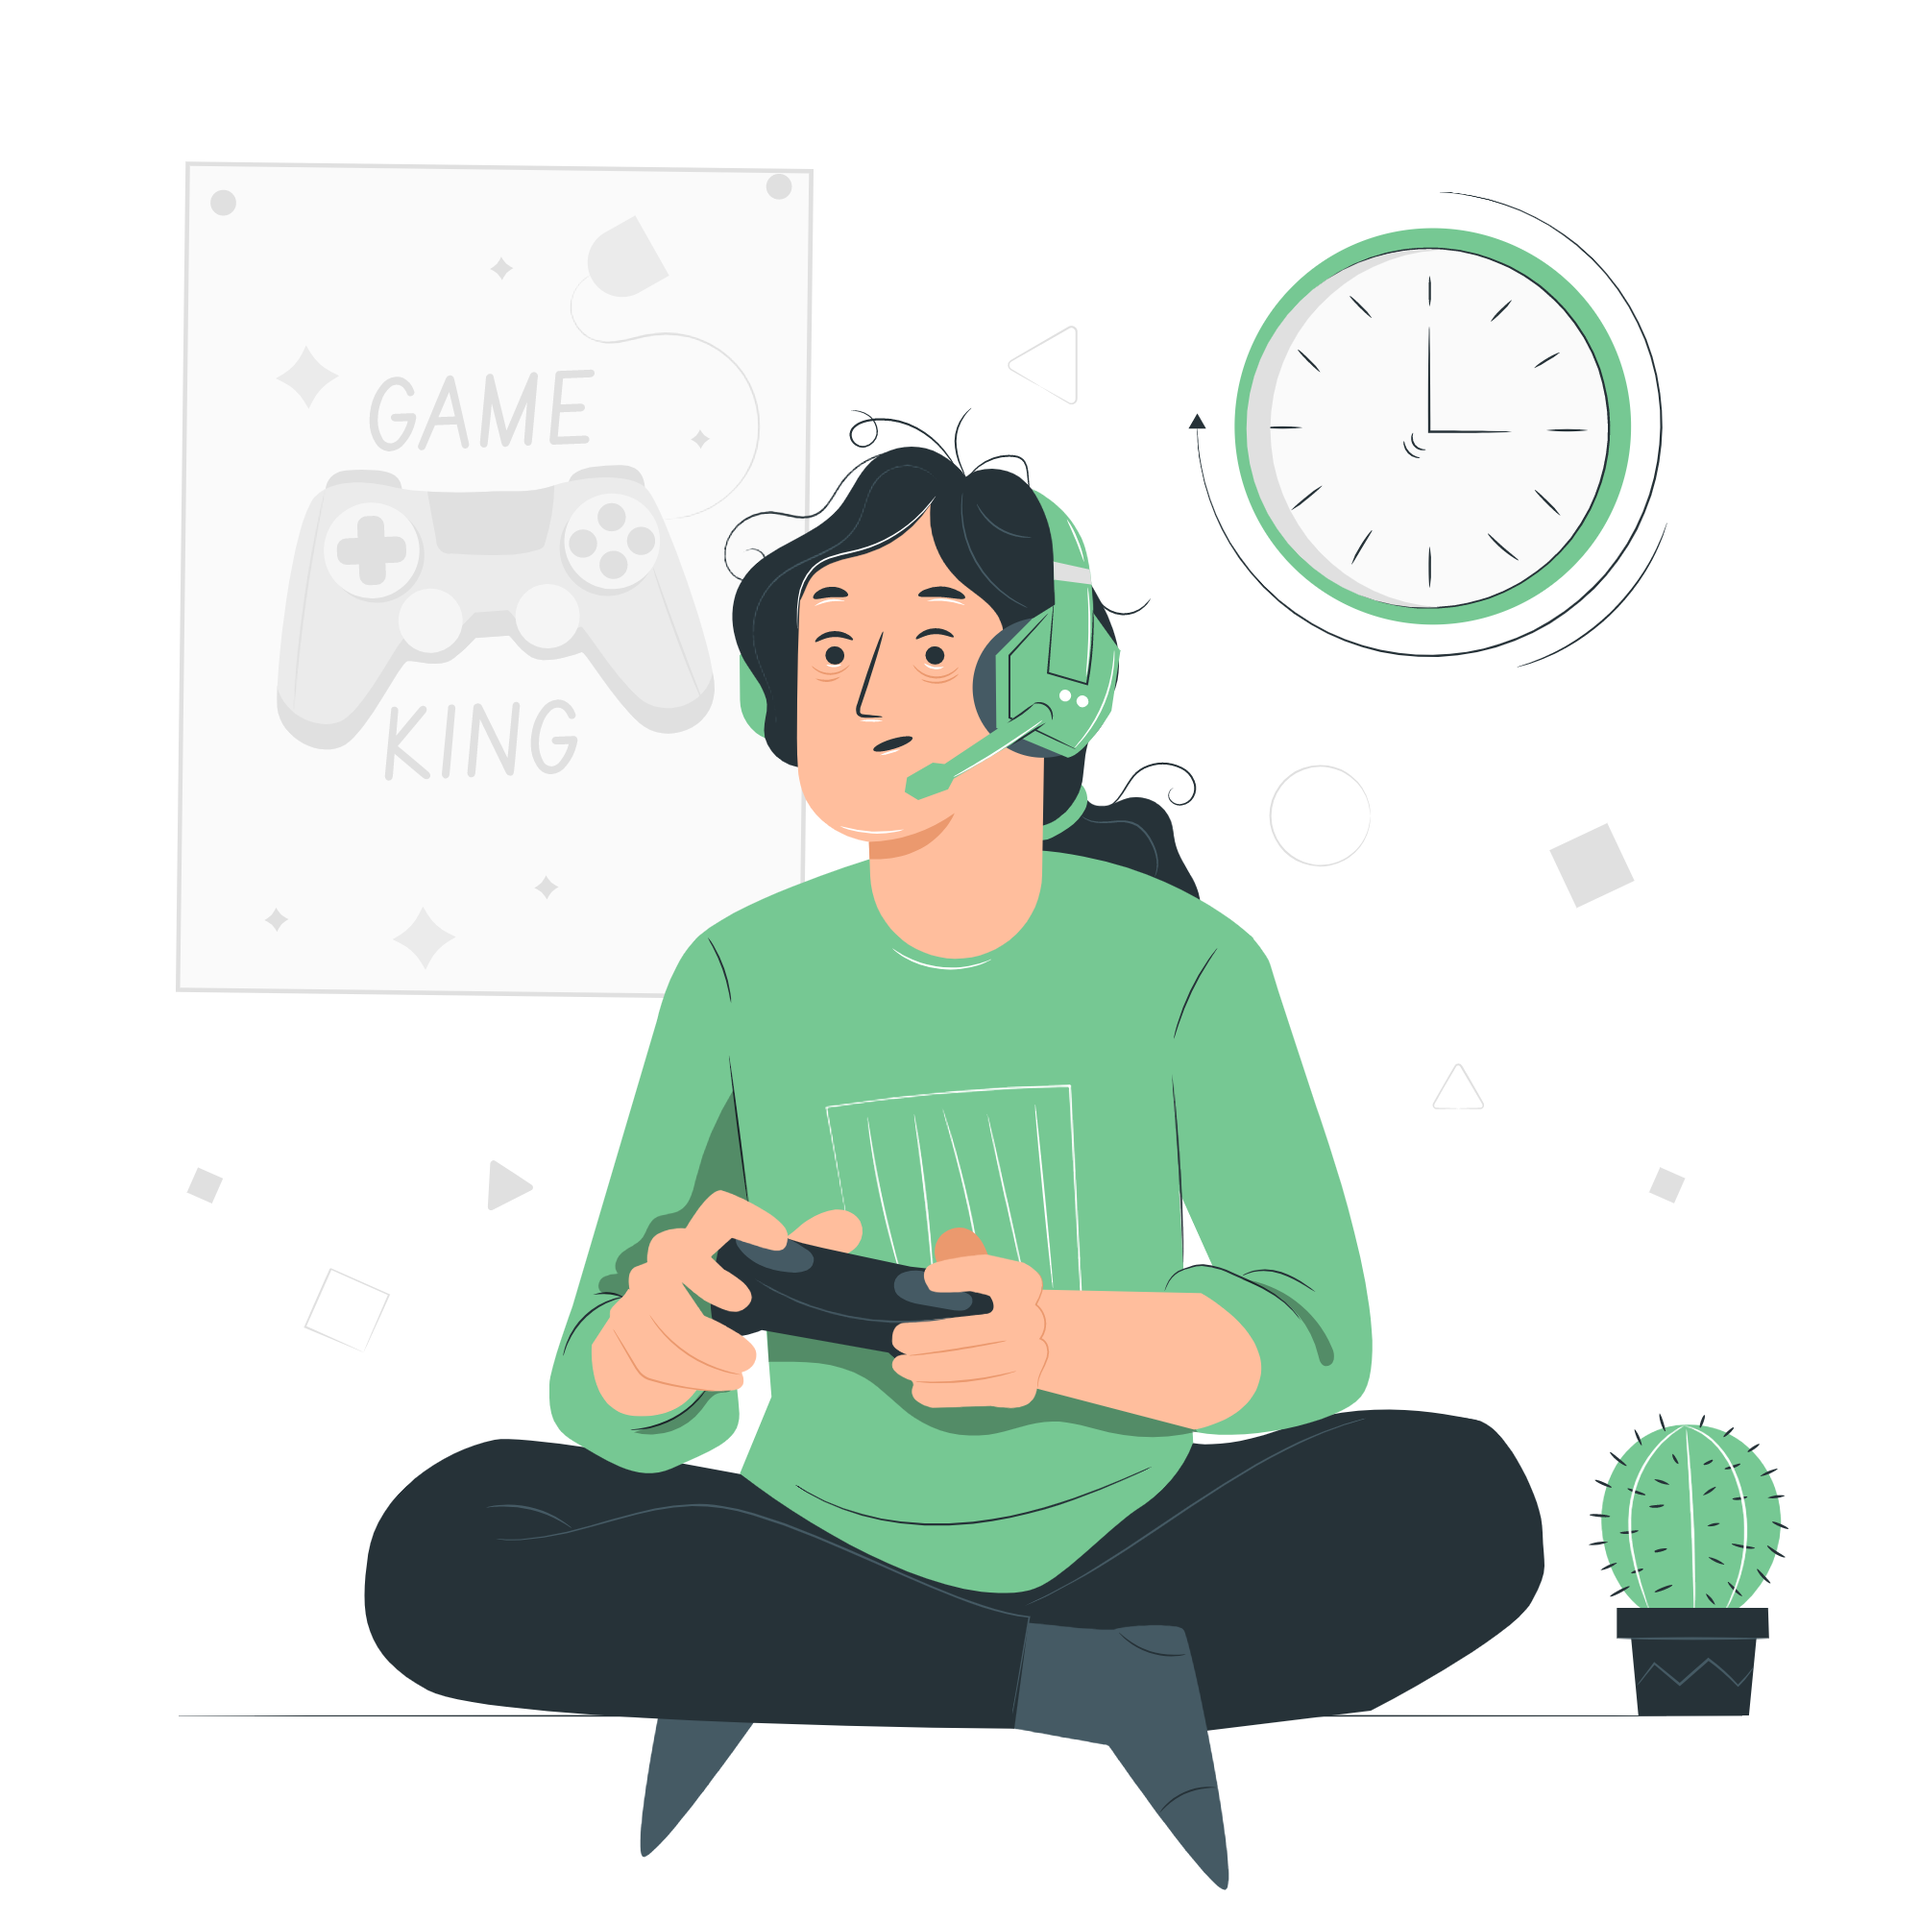
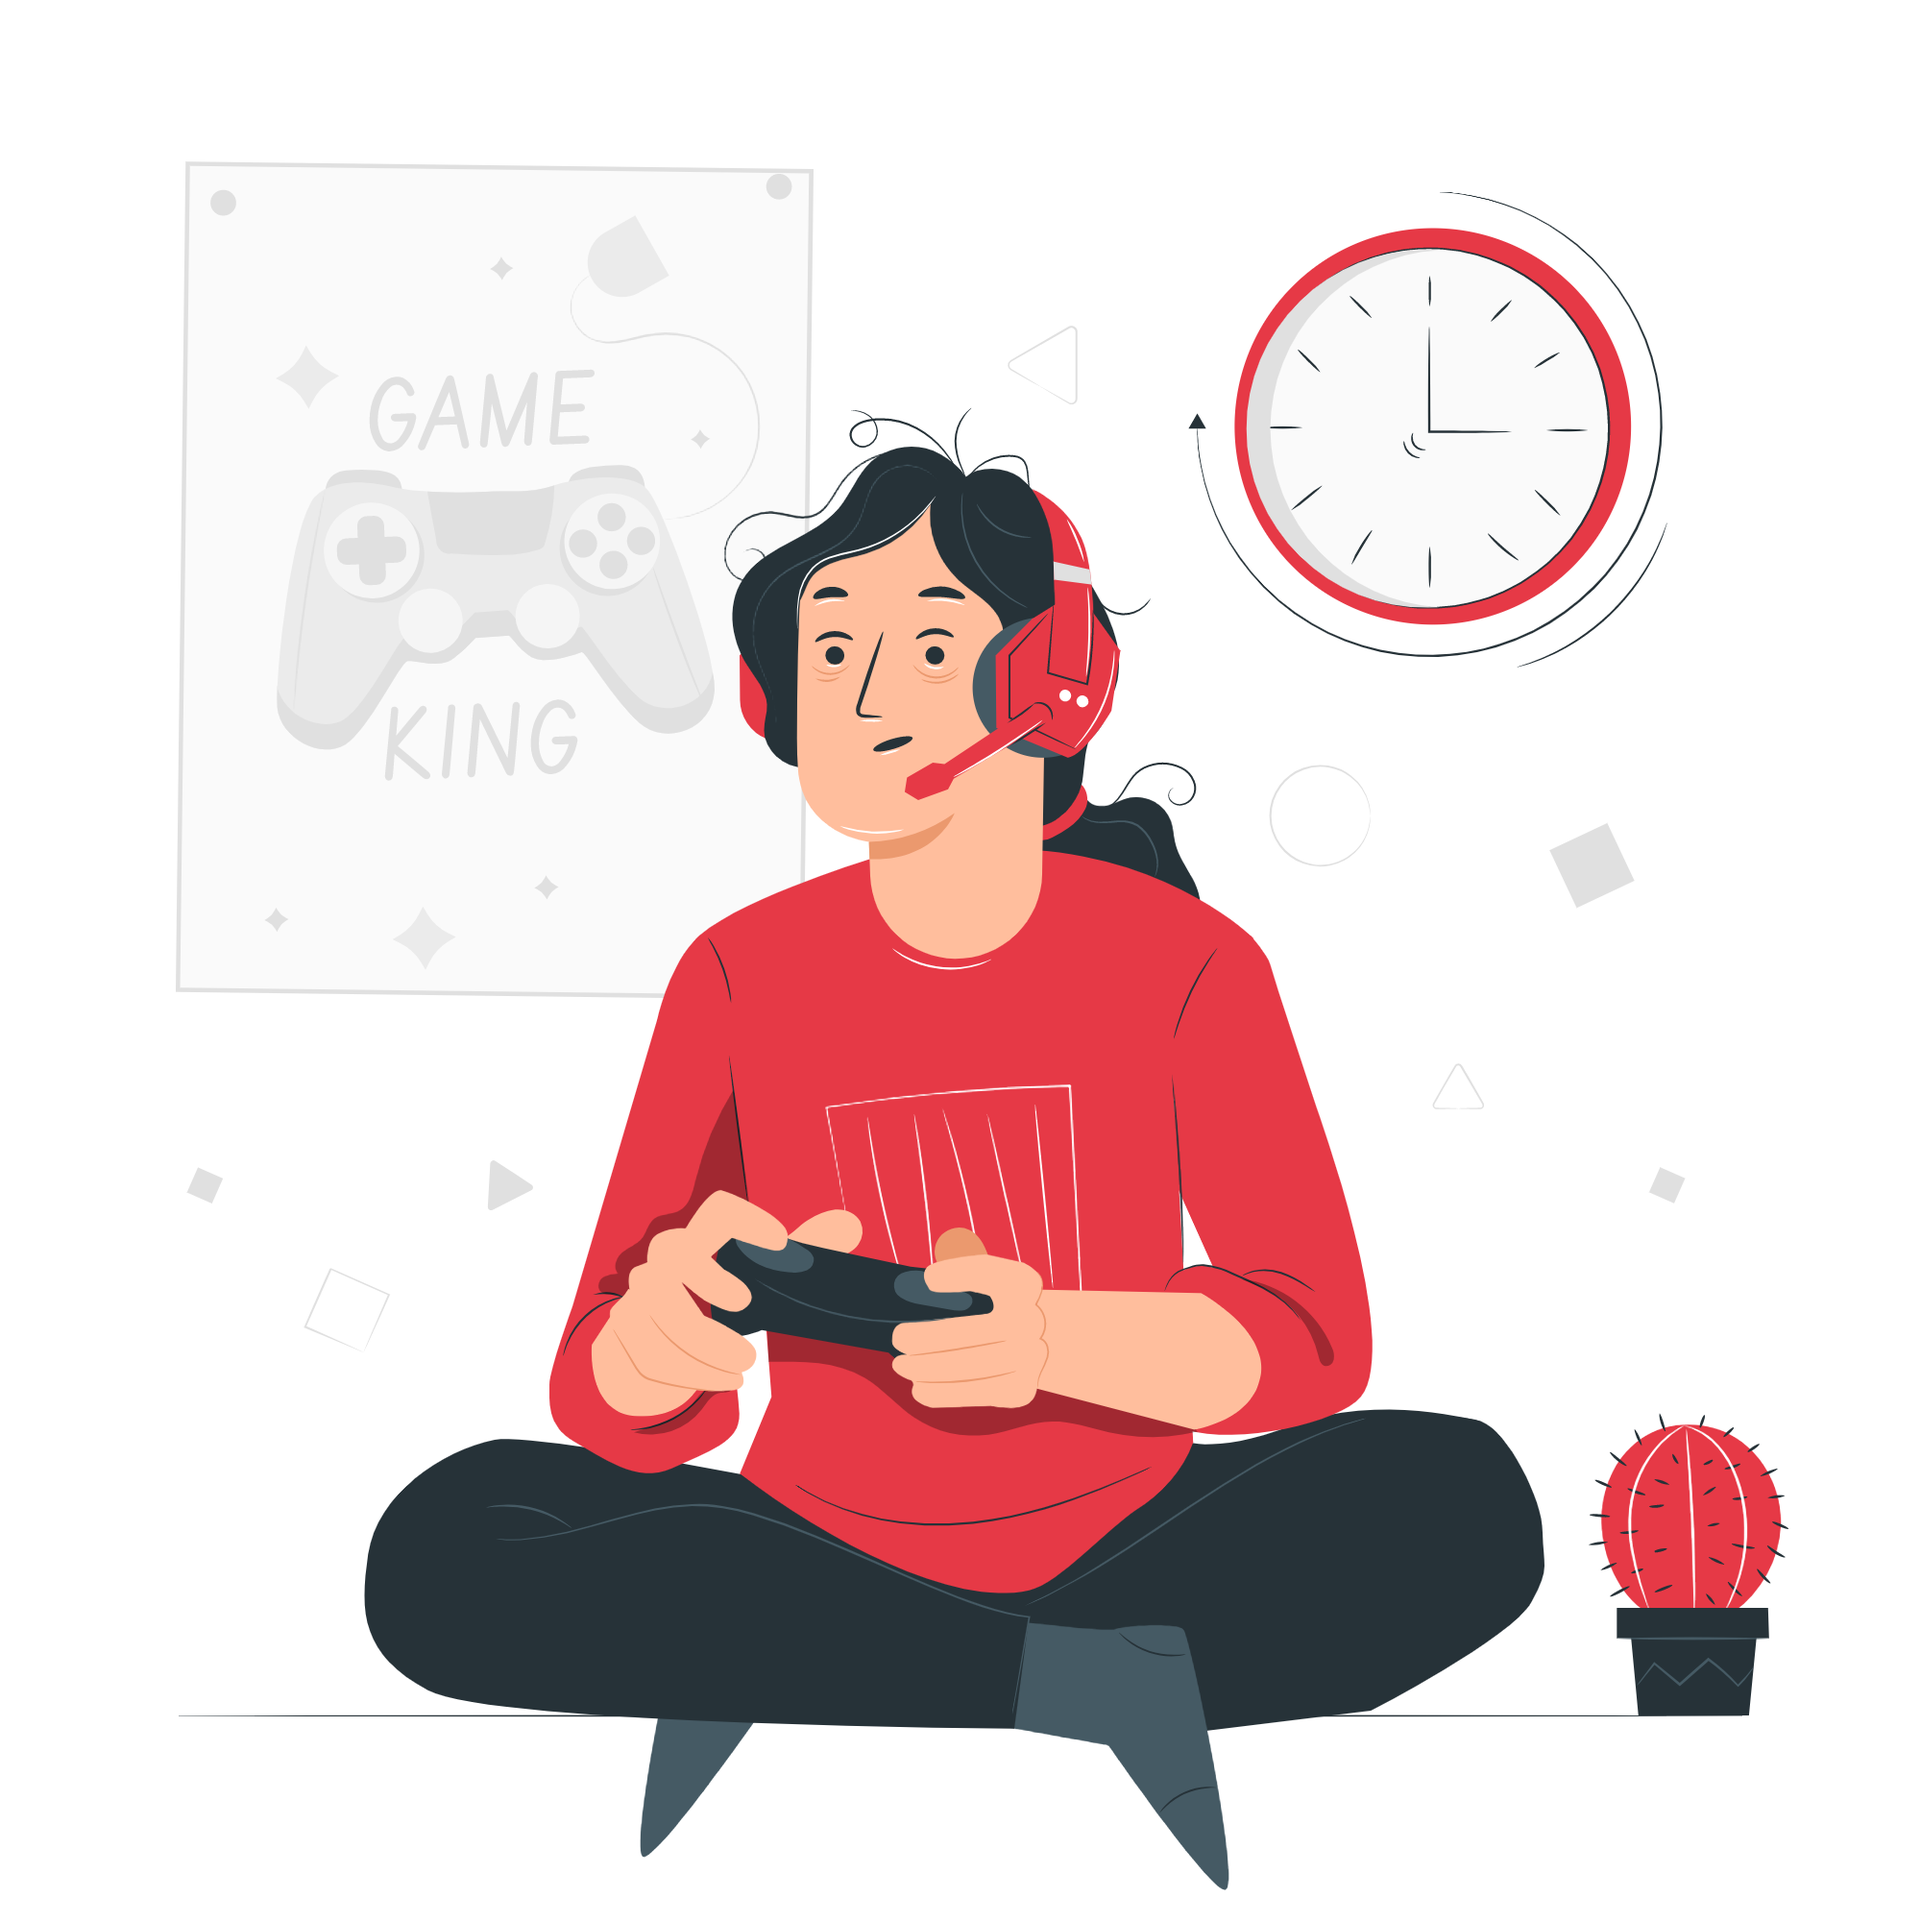
Some Modifications in UI

diff --git a/src/Components/Review/Review.js b/src/Components/Review/Review.js
@@ -19,10 +19,7 @@ const Review = (props) => {
         </div>
 
         <div className="card-body d-flex flex-column">
-          <h5
-            className="card-title text-center"
-            style={{ color: "#4d908e", textTransform: "uppercase" }}
-          >
+          <h5 className="card-title text-center" style={{ color: "#E63946" }}>
             {name}
           </h5>
           <h6 className="text-center occupation">{occupation}</h6>
@@ -36,7 +33,7 @@ const Review = (props) => {
               readonly
             />
           </div>
-          <p className="card-text text-center">{description}</p>
+          <p className="card-text text-center mt-4">{description}</p>
         </div>
       </div>
     </div>

diff --git a/src/App.css b/src/App.css
@@ -2,7 +2,7 @@
 
 body {
   font-family: "Roboto", sans-serif !important;
-  background-color: #e0e0e0;
+  background-color: #e6e7ee;
 }
 
 h1,
@@ -23,16 +23,16 @@ h6 {
   color: #264653;
   font-size: 15px;
   border-radius: 0px;
-  background: #e0e0e0;
-  box-shadow: 5px 5px 10px #a8a8a8, -5px -5px 10px #ffffff;
+  background: #e6e7ee;
+  box-shadow: 5px 5px 10px #adadb3, -5px -5px 10px #ffffff;
 }
 
 .sherrif-button:hover {
   border-radius: 0px;
-  background: #e0e0e0;
-  box-shadow: inset 5px 5px 10px #a8a8a8, inset -5px -5px 10px #ffffff;
+  background: #e6e7ee;
+  box-shadow: inset 5px 5px 10px #adadb3, inset -5px -5px 10px #ffffff;
 }
 
-.green-text {
-  color: #76c893;
+.red-text {
+  color: #e63946;
 }

diff --git a/src/Components/Charts/StackedAreaChartFigure/StackedAreaChartFigure.js b/src/Components/Charts/StackedAreaChartFigure/StackedAreaChartFigure.js
@@ -23,15 +23,15 @@ const StackedAreaChartFigure = () => {
         type="monotone"
         dataKey="investment"
         stackId="1"
-        stroke="#118ab2"
-        fill="#118ab2"
+        stroke="#5502bd"
+        fill="#5502bd"
       />
       <Area
         type="monotone"
         dataKey="revenue"
         stackId="1"
-        stroke="#ef476f"
-        fill="#ef476f"
+        stroke="#e63946"
+        fill="#e63946"
       />
     </AreaChart>
   );

diff --git a/src/Components/Home/Home.js b/src/Components/Home/Home.js
@@ -11,7 +11,7 @@ const Home = () => {
         <div className="col-lg-6 order-last order-lg-first">
           <h1 style={{ fontSize: "3.5rem" }}>
             Get your favorite games with{" "}
-            <span className="green-text">Sherrif's Video Game.</span>
+            <span className="red-text">Sherrif's Video Game.</span>
           </h1>
           <p>
             A video game or computer game is an electronic game that involves

diff --git a/src/Components/Charts/PieChartFigure/PieChartFigure.js b/src/Components/Charts/PieChartFigure/PieChartFigure.js
@@ -12,7 +12,7 @@ const PieChartFigure = () => {
         cx={250}
         cy={200}
         outerRadius={120}
-        fill="#ef476f"
+        fill="#e63946"
       />
       <Pie
         data={chartData}
@@ -21,7 +21,7 @@ const PieChartFigure = () => {
         cy={200}
         innerRadius={130}
         outerRadius={150}
-        fill="#118ab2"
+        fill="#5502bd"
         label
       />
     </PieChart>

diff --git a/src/Components/Header/Header.js b/src/Components/Header/Header.js
@@ -6,7 +6,11 @@ const Header = () => {
     <nav className="navbar navbar-expand-lg navbar-light">
       <div className="container">
         <Link to="/" className="navbar-brand">
-          Navbar
+          <img
+            src={require("../../images/logo.png")}
+            alt=""
+            style={{ width: "50px" }}
+          />
         </Link>
         <button
           className="navbar-toggler"

diff --git a/src/Components/Charts/BarChartFigure/BarChartFigure.js b/src/Components/Charts/BarChartFigure/BarChartFigure.js
@@ -20,8 +20,8 @@ const BarChartFigure = () => {
       <YAxis />
       <Tooltip />
       <Legend />
-      <Bar dataKey="investment" stackId="a" fill="#118ab2" />
-      <Bar dataKey="revenue" stackId="a" fill="#ef476f" />
+      <Bar dataKey="investment" stackId="a" fill="#5502bd" />
+      <Bar dataKey="revenue" stackId="a" fill="#e63946" />
     </BarChart>
   );
 };

diff --git a/src/Components/Charts/LineChartFigure/LineChartFigure.js b/src/Components/Charts/LineChartFigure/LineChartFigure.js
@@ -23,10 +23,10 @@ const LineChartFigure = () => {
       <Line
         type="monotone"
         dataKey="investment"
-        stroke="#118ab2"
+        stroke="#5502bd"
         activeDot={{ r: 8 }}
       />
-      <Line type="monotone" dataKey="revenue" stroke="#ef476f" />
+      <Line type="monotone" dataKey="revenue" stroke="#e63946" />
     </LineChart>
   );
 };

diff --git a/src/Components/Review/Review.css b/src/Components/Review/Review.css
@@ -1,7 +1,7 @@
 .card {
   border-radius: 0px;
-  background: #e0e0e0;
-  box-shadow: inset 5px 5px 10px #a8a8a8, inset -5px -5px 10px #ffffff;
+  background: #e6e7ee;
+  box-shadow: inset 5px 5px 10px #adadb3, inset -5px -5px 10px #ffffff;
 }
 
 h5 {

diff --git a/src/Components/Dashboard/Dashboard.css b/src/Components/Dashboard/Dashboard.css
@@ -1,5 +1,5 @@
 .chart {
   border-radius: 0px;
-  background: #e0e0e0;
-  box-shadow: inset 5px 5px 10px #a8a8a8, inset -5px -5px 10px #ffffff;
+  background: #e6e7ee;
+  box-shadow: 5px 5px 10px #adadb3, -5px -5px 10px #ffffff;
 }
